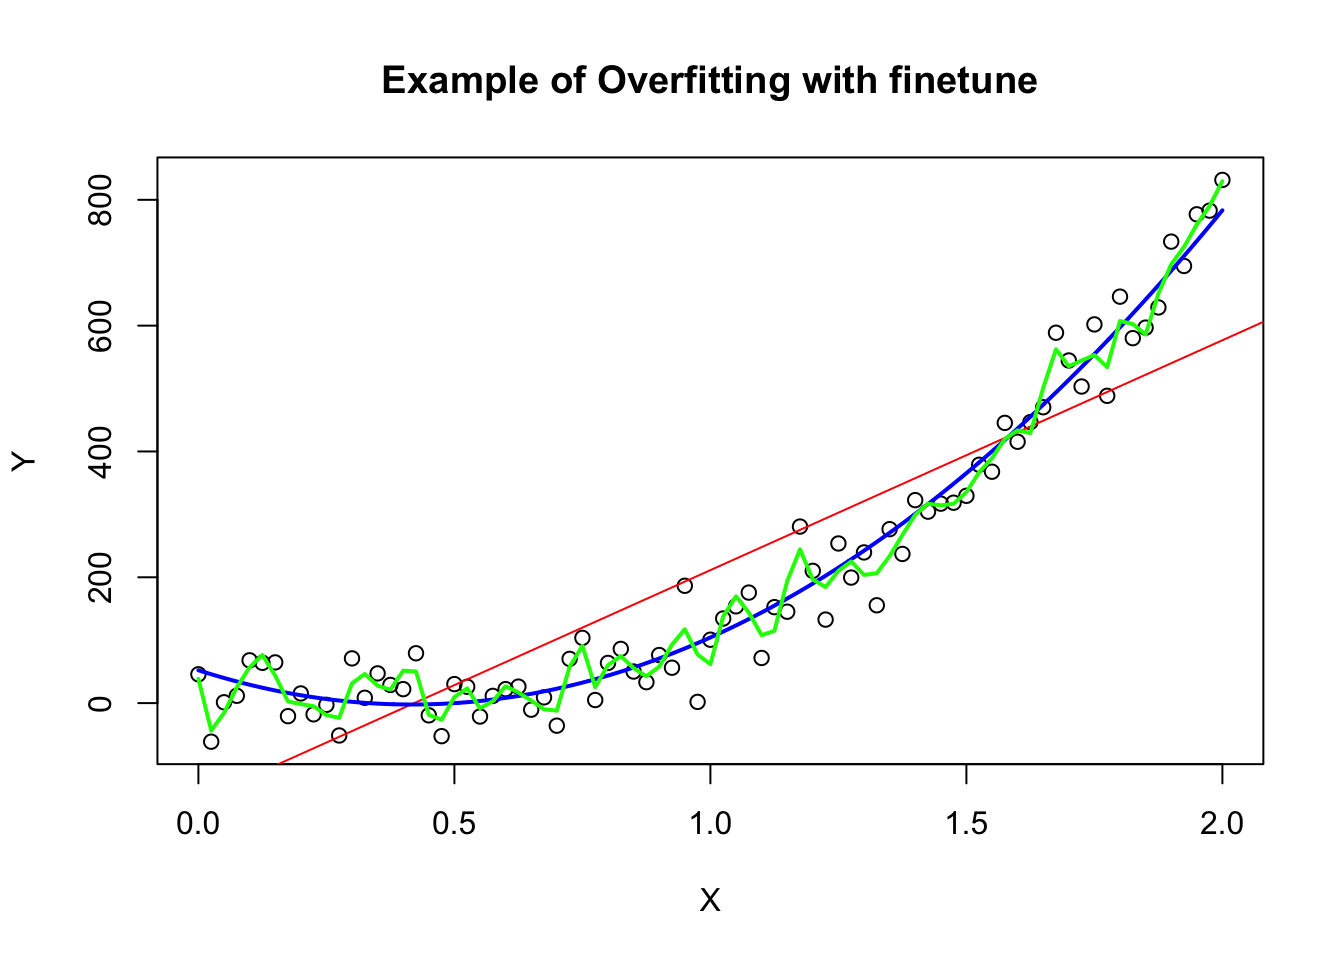
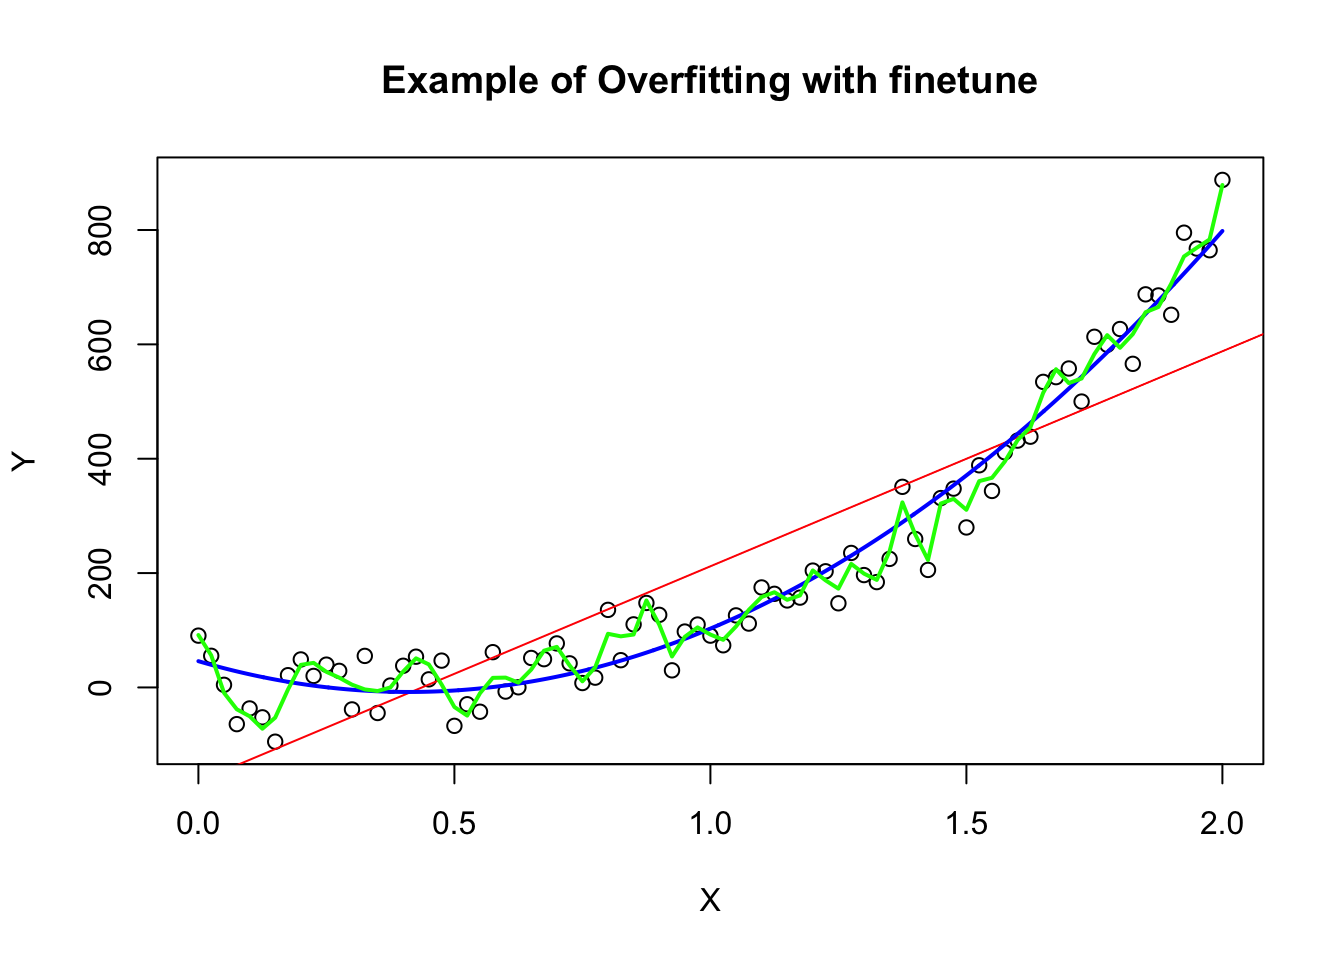
Add files via upload

diff --git a/_site/assignment2.html b/_site/assignment2.html
@@ -275,15 +275,15 @@ replace the existing scale.</code></pre>
 <span id="cb4-37"><a href="#cb4-37" aria-hidden="true" tabindex="-1"></a>Y <span class="ot">&lt;-</span> <span class="fu">rnorm</span>(<span class="dv">50</span>)</span>
 <span id="cb4-38"><a href="#cb4-38" aria-hidden="true" tabindex="-1"></a>Y</span></code><button title="Copy to Clipboard" class="code-copy-button"><i class="bi"></i></button></pre></div>
 <div class="cell-output cell-output-stdout">
-<pre><code> [1] -0.96776138 -1.04295187  0.98971587 -0.23128169  0.11464672 -0.14292844
- [7]  0.35540279  0.85492533  0.42288432  0.47291690  0.30622983  0.66773092
-[13] -0.60894235  1.42794279 -0.39420909  1.01968367  0.78559313  1.40585068
-[19] -0.06948091 -0.76612484 -1.40829925  0.40732037 -0.25471371  0.37258190
-[25] -1.82515697  0.33525097  2.34947563 -0.45462644  0.23145684  0.58343083
-[31] -0.07944963  1.73599755 -1.15787302  0.01730169  0.54288118 -0.28552019
-[37] -1.31342326 -0.15322430  0.13145877 -0.05941453 -0.53348307  0.07245110
-[43]  0.78001133 -1.01471787 -1.31421870  0.89505029 -1.33680221 -0.77650315
-[49]  1.66922739 -0.58872399</code></pre>
+<pre><code> [1] -1.29281281 -0.49814333 -1.43923767 -0.37119131  0.36809264 -2.21291058
+ [7] -0.85625462 -0.70675774 -0.05119551 -1.99026910 -1.73797686  0.17590973
+[13]  0.36638517  1.15125520 -1.30365748 -1.54349337 -0.46465374  1.35004654
+[19]  0.03180122  1.63654317 -0.55928488 -2.26947333  0.89740996 -0.37802963
+[25] -0.40667904  0.76614769 -1.44124275 -1.61752116  0.27122495 -0.70484996
+[31] -0.55793682  1.82216050 -1.19375941 -1.40780153  0.51344333  1.96283582
+[37]  1.21121066  1.19465173 -0.16145136  0.69157652  0.66882356  1.36325546
+[43] -0.72692956 -1.26155115 -1.21149465  0.64147451 -1.33904290 -0.82658776
+[49] -1.65807729  0.96484117</code></pre>
 </div>
 <div class="cell-output-display">
 <p><img src="assignment2_files/figure-html/unnamed-chunk-3-1.png" class="img-fluid" width="672"></p>
